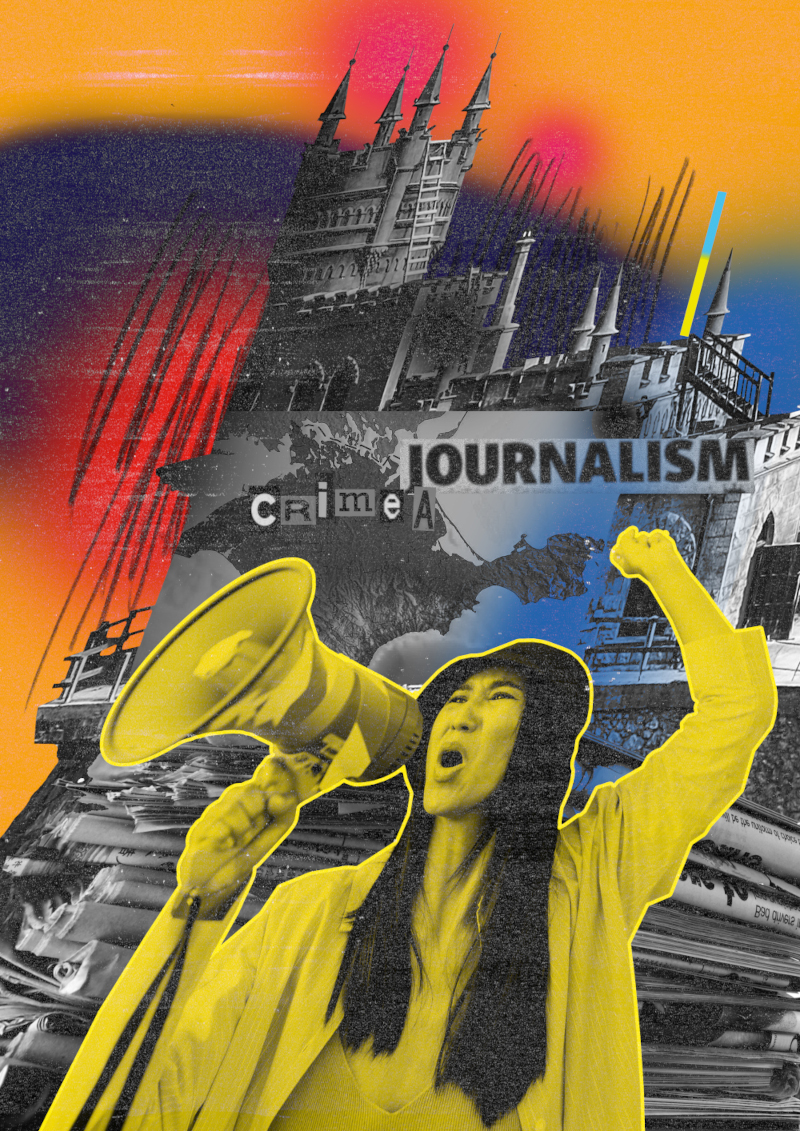
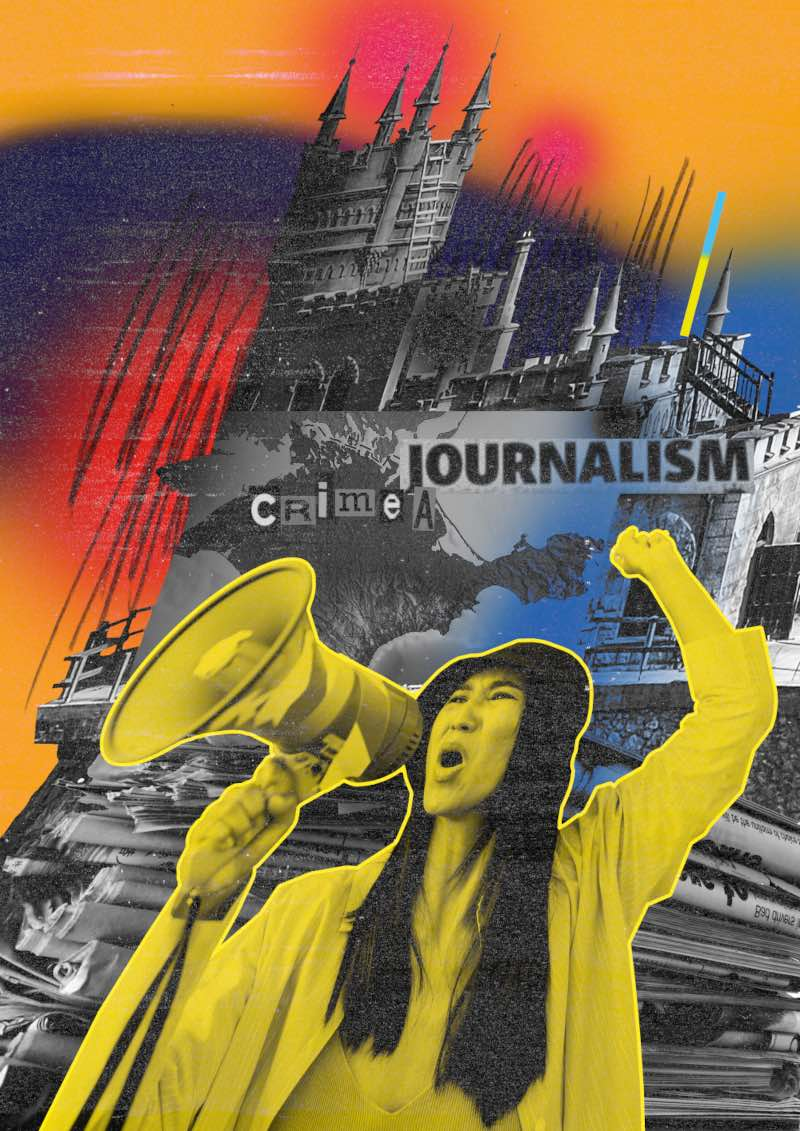
added title artwork

diff --git a/index.html b/index.html
@@ -696,7 +696,7 @@ setup.backThirty = () => {
 &lt;main class=&quot;beginning&quot; id=&quot;&quot;&gt;
 
 &lt;div class=&quot;poster-wrapper&quot; id=&quot;poster&quot;&gt;
-   &lt;img class=&quot;poster&quot; src=&quot;./../assets/img/moon.jpeg&quot;/&gt;
+   &lt;img class=&quot;poster&quot; src=&quot;./../assets/img/moon-title.jpeg&quot;/&gt;
  &lt;/div&gt;
  &lt;p class=&quot;comment center&quot;&gt;Put your headphones in and turn up the volume&lt;/p&gt;
  &lt;div class=&quot;menu-wrapper&quot;&gt;

diff --git a/README.md b/README.md
@@ -1,6 +1,8 @@
 #Our Biggest Premiere Yet
 
-https://dark-side-moon.netlify.app/ 
+https://dark-side-moon.netlify.app/
 
-add captions
+# to compile twee
 
+source ~/.bash_profile
+tweego -o index.html template.tw -w
